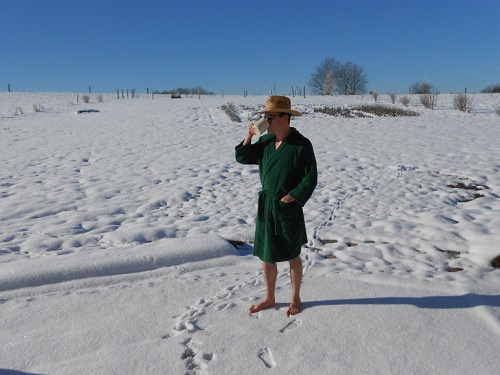
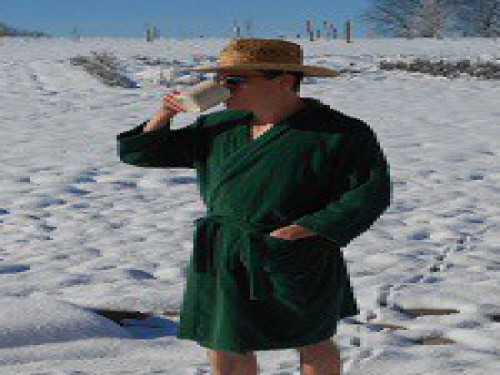
Show a preview of the edited image

diff --git a/public/js/cropFrame.js b/public/js/cropFrame.js
@@ -1,6 +1,6 @@
 var myCropFrame = {
     update: function () {
-        var frameElt = document.getElementById('crop-frame'),
+        var frameElt = document.getElementById('image-preview'),
             originX = document.getElementById("crop-x").value,
             originY = document.getElementById("crop-y").value,
             width = document.getElementById("crop-width").value,
@@ -10,7 +10,7 @@ var myCropFrame = {
 
         frameElt.style.width = width + "px";
         frameElt.style.height = height + "px";
-        frameElt.style.left = originX + "px";
-        frameElt.style.top = originY + "px";
+        frameElt.style.backgroundPositionX = -originX + "px";
+        frameElt.style.backgroundPositionY = -originY + "px";
     }
 }

diff --git a/public/css/admin-style.css b/public/css/admin-style.css
@@ -137,20 +137,13 @@ footer ul li a, footer ul li a:hover {
 }
 
 .image-to-edit-wrapper {
-    margin: 50px;
+
 }
 
 #new-tag-input {
     font-size: 0.75em;
 }
 
-#crop-frame {
-    position: relative;
-    border: 5px solid limegreen;
-    z-index: 1000;
-}
-
-#image-to-edit {
-    position: relative;
-    z-index: 1;
+#image-preview {
+    background-repeat: no-repeat;
 }

diff --git a/src/DIC.php b/src/DIC.php
@@ -119,6 +119,17 @@ class DIC
         });
         $twig->addFunction($getCurrentUrl);
 
+        // Get the size of an image
+        $getImageSize = new Twig_Function('getImageSize', function (string $imageUrl) {
+            if ($imageData = getimagesize(ROOT_PATH . $imageUrl)) {
+                return [
+                    'width' => $imageData[0],
+                    'height' =>$imageData[1]
+                ];
+            }
+        });
+        $twig->addFunction($getImageSize);
+
         return $twig;
     }
 }
